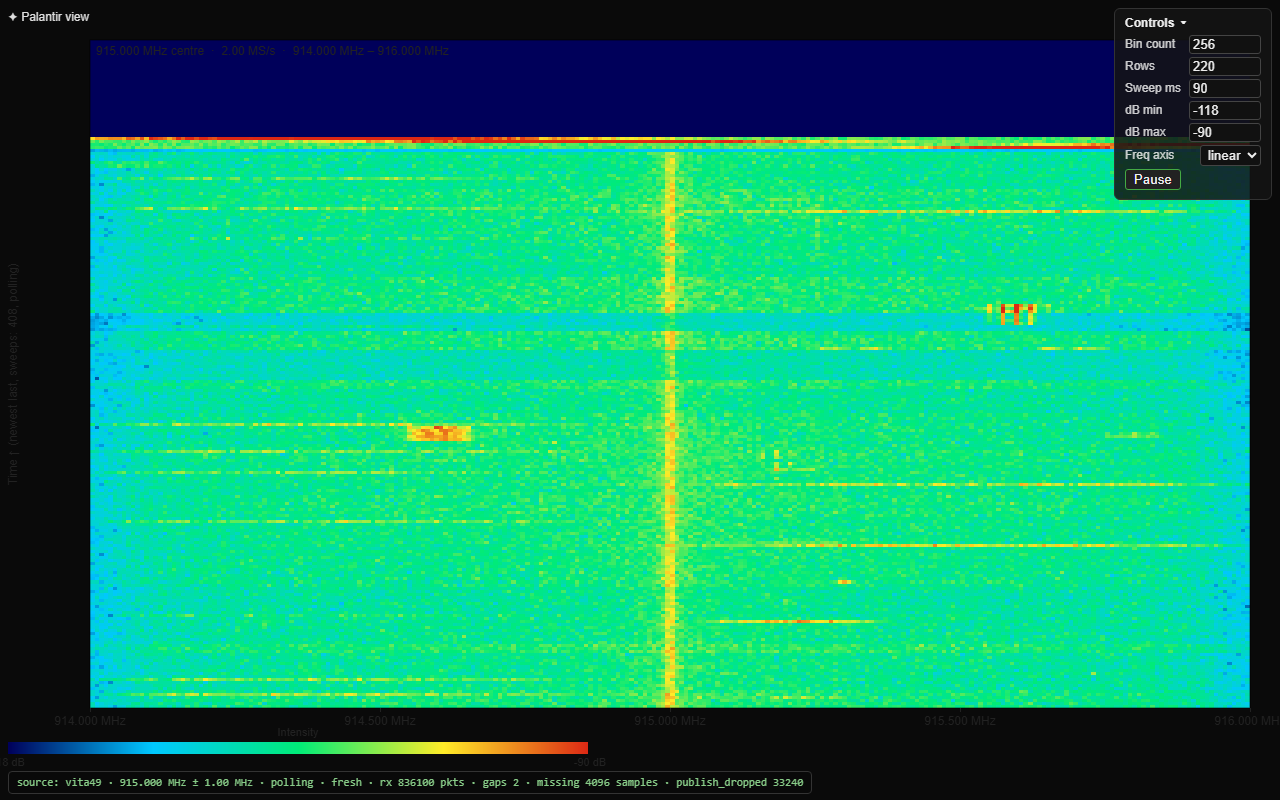
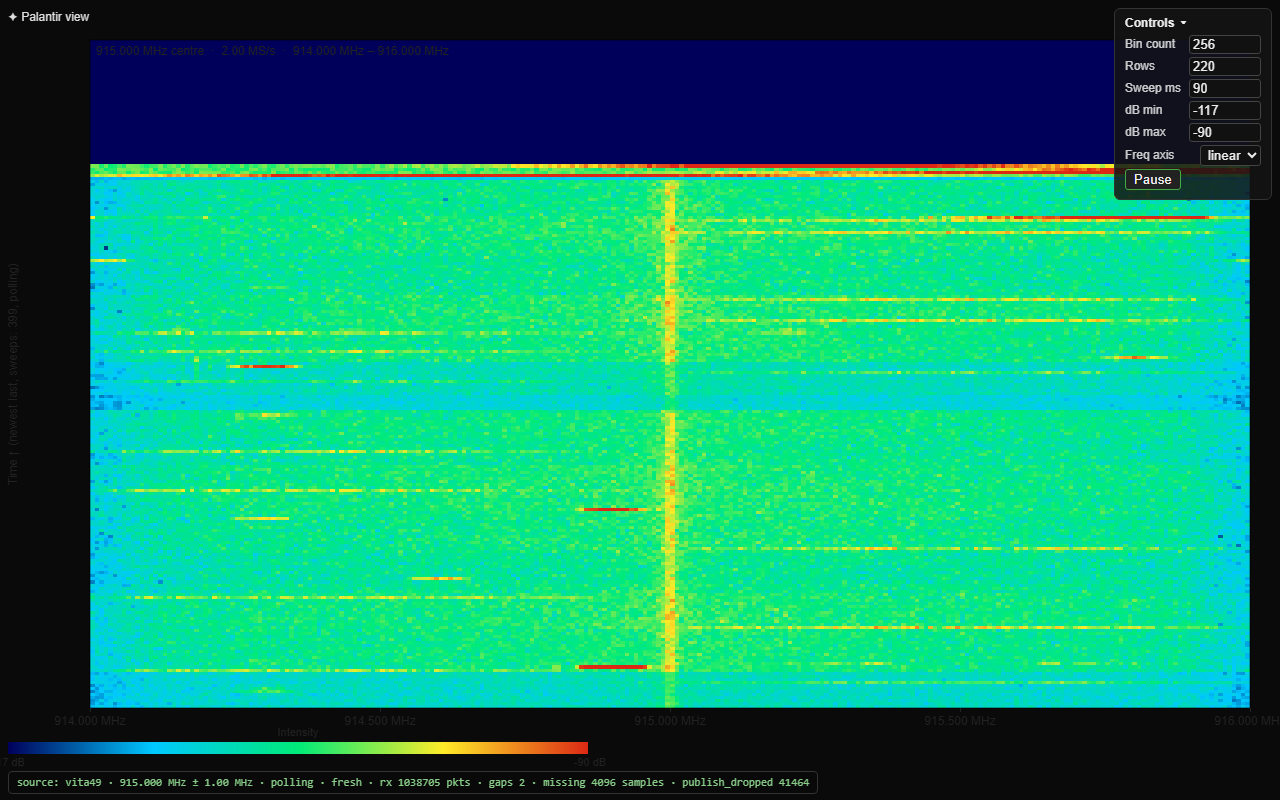
style: rustfmt on cli.rs/tone_db.rs and a refreshed live screenshot
Housekeeping after the previous goal closed: pi-lens reformatted src/cli.rs and
tests/tone_db.rs, and the committed screenshot was regenerated by the final
verification run. No behaviour change: cargo test 42 and bun test 8 still pass.

Committing so the kustomize conversion starts from a clean tree.

diff --git a/tests/tone_db.rs b/tests/tone_db.rs
@@ -96,18 +96,16 @@ fn tone_index(passband_bin: usize) -> usize {
 
 /// Peak (bin index, dBFS) across the row.
 fn peak(bins: &[f32]) -> (usize, f32) {
-    bins.iter()
-        .enumerate()
-        .fold(
-            (0usize, f32::MIN),
-            |acc, (i, &v)| {
-                if v > acc.1 {
-                    (i, v)
-                } else {
-                    acc
-                }
-            },
-        )
+    bins.iter().enumerate().fold(
+        (0usize, f32::MIN),
+        |acc, (i, &v)| {
+            if v > acc.1 {
+                (i, v)
+            } else {
+                acc
+            }
+        },
+    )
 }
 
 /// Second-highest bin, used to prove the energy really is concentrated.
@@ -155,7 +153,11 @@ fn a_tone_lands_on_its_expected_bin_at_its_expected_dbfs() {
     assert_eq!(row.bins.len(), FFT_SIZE);
 
     let (bin, dbfs) = peak(&row.bins);
-    assert_eq!(bin, tone_index(TONE_BIN), "tone bin: +512 -> +250 kHz at 2 MS/s");
+    assert_eq!(
+        bin,
+        tone_index(TONE_BIN),
+        "tone bin: +512 -> +250 kHz at 2 MS/s"
+    );
     assert!(
         (dbfs - EXPECTED_DBFS).abs() <= DBFS_TOLERANCE,
         "expected ~{EXPECTED_DBFS} dBFS for amplitude 64 of 127 full scale, got {dbfs}"
@@ -297,7 +299,10 @@ fn real_captured_sigproc_datagram_parses() {
     assert_eq!(packet.header.tsf, 1, "fraction in sample counts");
     assert_eq!(packet.header.packet_count, 0, "not populated by the sender");
     assert_eq!(packet.header.size_words, 2052);
-    assert!(packet.size_field_matches, "declared size == delivered length");
+    assert!(
+        packet.size_field_matches,
+        "declared size == delivered length"
+    );
     assert_eq!(packet.stream_id, 0, "always 0 today");
     assert_eq!(packet.complex_samples(), NOMINAL_COMPLEX_SAMPLES);
     assert_eq!(packet.trailing_bytes, 0);
@@ -307,7 +312,11 @@ fn real_captured_sigproc_datagram_parses() {
 
     // Genuine RF: many distinct values, mostly non-zero.
     let distinct: std::collections::HashSet<i16> = components.iter().copied().collect();
-    assert!(distinct.len() > 20, "real noise floor, {} distinct", distinct.len());
+    assert!(
+        distinct.len() > 20,
+        "real noise floor, {} distinct",
+        distinct.len()
+    );
     let non_zero = components.iter().filter(|&&v| v != 0).count();
     assert!(non_zero * 10 > components.len() * 9, ">90% non-zero");
 
@@ -329,7 +338,10 @@ fn real_captured_sigproc_datagram_parses() {
     let mut processor = PacketProcessor::new(NOMINAL_SAMPLE_RATE);
     let mut rows = processor.observe(datagram).rows;
     rows.extend(processor.observe(datagram).rows);
-    assert!(!rows.is_empty(), "two live datagrams fill a 4096-sample window");
+    assert!(
+        !rows.is_empty(),
+        "two live datagrams fill a 4096-sample window"
+    );
     let row = &rows[rows.len() - 1];
     assert_eq!(row.bins.len(), FFT_SIZE);
     let spread = row.bins.iter().cloned().fold(f32::MIN, f32::max)
@@ -338,8 +350,16 @@ fn real_captured_sigproc_datagram_parses() {
         spread > 5.0,
         "live spectrum has structure at 16-bit resolution (spread {spread:.1} dB)"
     );
-    assert_eq!(processor.peak_abs(), peak, "processor reports the live level");
-    assert!(processor.mean_abs() > 1.0, "mean level {}", processor.mean_abs());
+    assert_eq!(
+        processor.peak_abs(),
+        peak,
+        "processor reports the live level"
+    );
+    assert!(
+        processor.mean_abs() > 1.0,
+        "mean level {}",
+        processor.mean_abs()
+    );
 }
 
 /// The 8-bit downshift is only lossless for full-scale input. On this live band
@@ -401,7 +421,11 @@ fn quiet_tones_keep_their_bin_and_level_on_the_sc16_path() {
     let row = row_from(&mut processor, &over_udp(&packets));
 
     let (bin, dbfs) = peak(&row.bins);
-    assert_eq!(bin, tone_index(TONE_BIN), "quiet tone still lands on its bin");
+    assert_eq!(
+        bin,
+        tone_index(TONE_BIN),
+        "quiet tone still lands on its bin"
+    );
 
     // 20*log10(46 / 32767) = -57.06 dBFS against the 16-bit reference.
     let expected = 20.0 * (QUIET_SC16 as f32 / 32767.0).log10();

diff --git a/src/cli.rs b/src/cli.rs
@@ -96,14 +96,25 @@ mod tests {
 
     #[test]
     fn missing_flag_is_none_and_parse_or_uses_the_default() {
-        assert_eq!(flag_value(&args(&["bin", "--static", "."]), "--source"), None);
+        assert_eq!(
+            flag_value(&args(&["bin", "--static", "."]), "--source"),
+            None
+        );
         assert_eq!(parse_or(&args(&["bin"]), "--publish-hz", 30.0_f64), 30.0);
         assert_eq!(
-            parse_or(&args(&["bin", "--publish-hz=12.5"]), "--publish-hz", 30.0_f64),
+            parse_or(
+                &args(&["bin", "--publish-hz=12.5"]),
+                "--publish-hz",
+                30.0_f64
+            ),
             12.5
         );
         assert_eq!(
-            parse_or(&args(&["bin", "--publish-hz", "7"]), "--publish-hz", 30.0_f64),
+            parse_or(
+                &args(&["bin", "--publish-hz", "7"]),
+                "--publish-hz",
+                30.0_f64
+            ),
             7.0
         );
     }
@@ -111,7 +122,10 @@ mod tests {
     #[test]
     fn first_occurrence_wins() {
         assert_eq!(
-            flag_value(&args(&["bin", "--source=ingest", "--source", "synthetic"]), "--source"),
+            flag_value(
+                &args(&["bin", "--source=ingest", "--source", "synthetic"]),
+                "--source"
+            ),
             Some("ingest".to_string())
         );
     }
